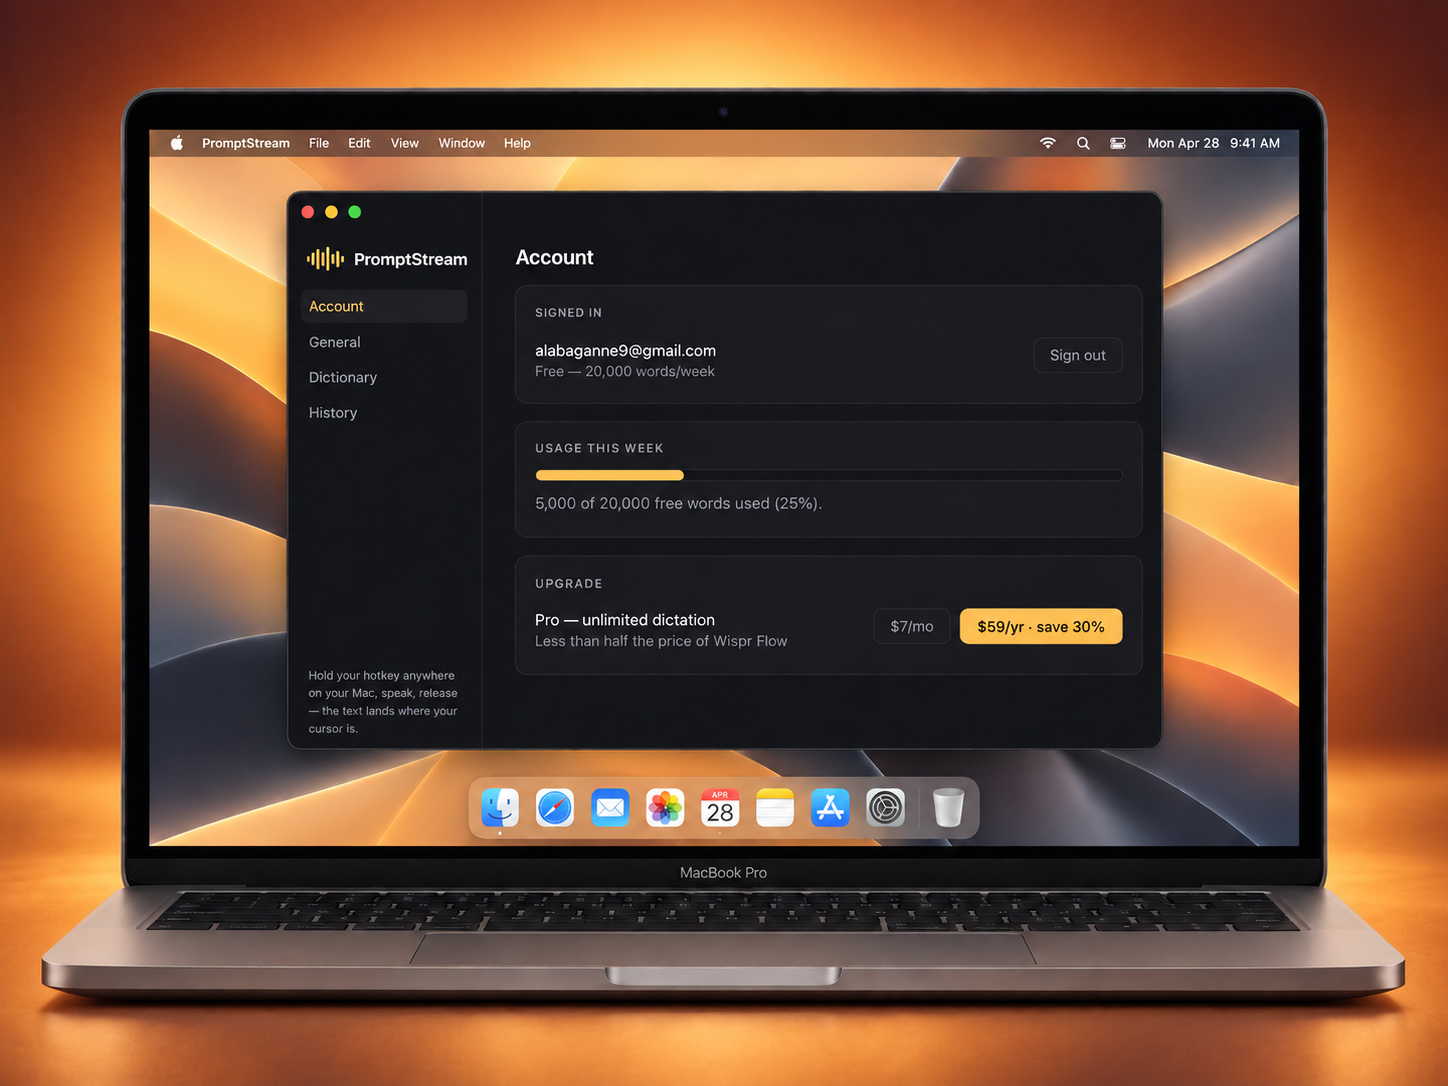
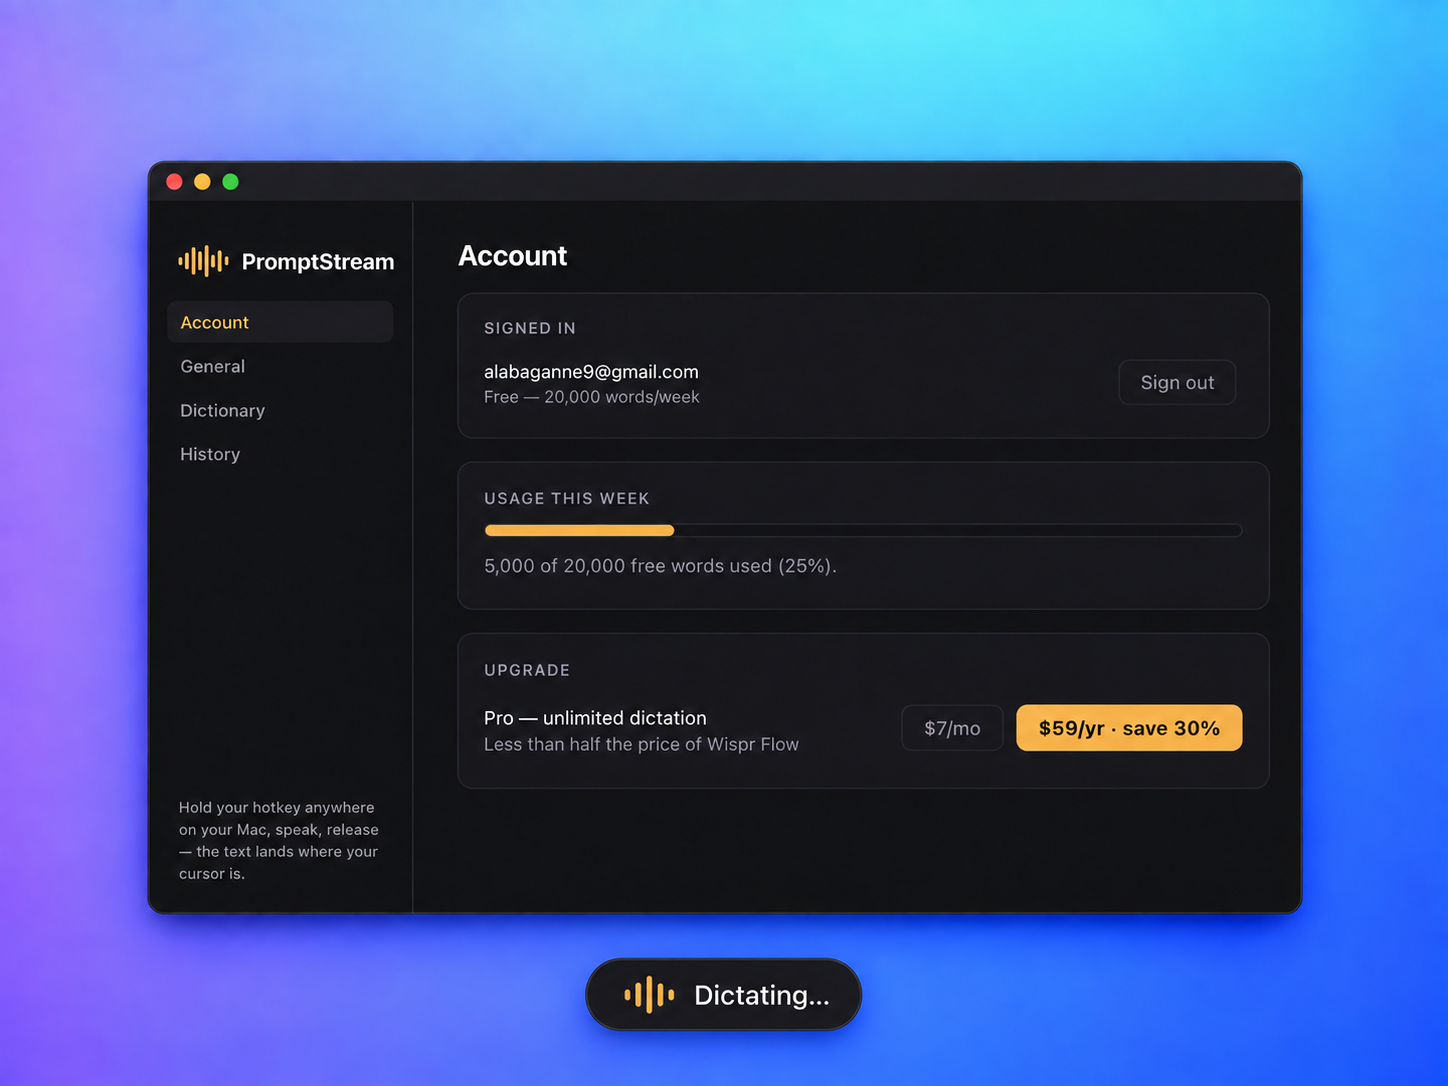
Unify portfolio project mockups

diff --git a/src/components/home/projects-section.jsx b/src/components/home/projects-section.jsx
@@ -195,7 +195,7 @@ function ProjectThumb({ project }) {
     <div className="relative aspect-[4/3] overflow-hidden border-b border-slate-200 bg-slate-50">
       {project.image ? (
         <Image
-          src={project.image}
+          src={`${project.image}?v=20260923-3`}
           alt={`${project.name} demo`}
           fill
           sizes="(min-width: 1024px) 50vw, 100vw"

diff --git a/PROJECT-IMAGE-PROMPTS.md b/PROJECT-IMAGE-PROMPTS.md
@@ -1,0 +1,99 @@
+# Portfolio project image prompts
+
+These prompts produced the September 2026 portfolio mockups using the built-in imagegen tool. Attach the referenced images when reusing a prompt.
+
+## References
+
+- Web mockup and shared background: `public/projects/menumate-demo.png`.
+- Light desktop window: `public/projects/backupmaster-demo.png`.
+- Dark desktop window: `public/projects/promptstream-demo.png`.
+- Content source: a screenshot of the project being presented.
+
+Use the existing mockup as Image 1 and the new project's screenshot as Image 2. Keep the website or app's own colors inside the screen. Use the shared gradient outside it.
+
+## Web apps, landing pages and online stores
+
+```text
+Use case: compositing / product-mockup.
+Create one landscape 4:3 portfolio thumbnail, 1448 x 1086 pixels.
+
+Image 1 is the edit target and strict presentation template. Preserve its
+exact gradient background, MacBook Pro hardware, camera angle, size,
+position, shadow and margins. Image 2 supplies only the website content.
+
+Replace only the website inside Image 1's screen with [PROJECT NAME]
+from Image 2. Preserve the source website's content, logos, typography,
+colors, photographs and layout. Fit the complete main interface cleanly
+within the display. Do not redesign the website or invent interface text.
+Keep important content clear of the display notch.
+
+Use the same centered, straight-on space-gray MacBook Pro, slim black
+bezel, small keyboard view and complete visible laptop as Image 1.
+Keep the bright cyan upper right, lavender upper left, violet lower left
+and electric cobalt lower right gradient, with subtle fine grain and a
+soft grounded shadow. Background colors fill every edge.
+
+No extra devices, badges, text outside the screen, decorative shapes,
+patterns, scenery, floor horizon, dramatic glow or dull dark corners.
+Keep the screen crisp and the colored margins balanced.
+```
+
+## Desktop apps
+
+```text
+Use case: compositing.
+Create one landscape 4:3 portfolio thumbnail, 1448 x 1086 pixels.
+
+Image 1 is the background and framing reference. Image 2 is the native
+[PROJECT NAME] app screenshot to present. Preserve the screenshot's
+interface, typography, icons, colors, content and natural proportions.
+
+Place one complete native app window directly on Image 1's bright
+cyan/lavender/violet/cobalt gradient. Center it, front-on with no tilt,
+at about 80% of the canvas width. Keep generous balanced margins,
+rounded corners, a subtle border and a soft controlled shadow.
+Keep the native window controls. If the screenshot lacks them, add
+a slim integrated titlebar with small red, yellow and green controls.
+
+No laptop, monitor, desktop wallpaper, dock, OS menu bar, extra text,
+decorative objects or patterns. Do not crop or redesign the interface.
+```
+
+## BackupMaster demo adjustment
+
+```text
+Remove the entire yellow device-trust notice, including its icon,
+message and button. Move the scan panel up immediately below the
+Overview heading and device subtitle. Move the backup list upward
+by the same amount, keeping the original gap between the panels.
+Preserve both panels' sizes, text, controls and row layouts.
+
+Keep the app window's exact outer height, width and position. Leave
+the sidebar, titlebar, controls, footer, background gradient and shadow
+unchanged. Fill the newly empty lower area with the same off-white
+window background. This change is for the demo image only.
+```
+
+## Optional PromptStream dictation badge
+
+```text
+Edit the existing PromptStream thumbnail. Add one small floating
+dictation pill at the bottom center, in the gradient below the app.
+Keep the app window, interface, canvas, gradient and shadow unchanged.
+
+On a 1448 x 1086 canvas, center the pill around x=724, y=992.
+Use a roughly 250 x 62 pixel rounded capsule with a dark charcoal
+surface matching the app, a subtle border and a soft shadow.
+Inside, place an amber waveform of five or seven rounded vertical
+bars, followed by clear off-white text reading exactly "Dictating…".
+Use about 24 pixel text and balanced padding. Keep a visible gap
+above the pill, without covering the app or touching the canvas edge.
+Add no other decorations or text.
+```
+
+## Replacing an image
+
+Save previews separately until reviewed. Keep final images in
+`public/projects/`, preserve the 4:3 aspect ratio, and update the image
+URL version in `src/components/home/projects-section.jsx` after replacing
+assets so the previous optimized images are not served from cache.
